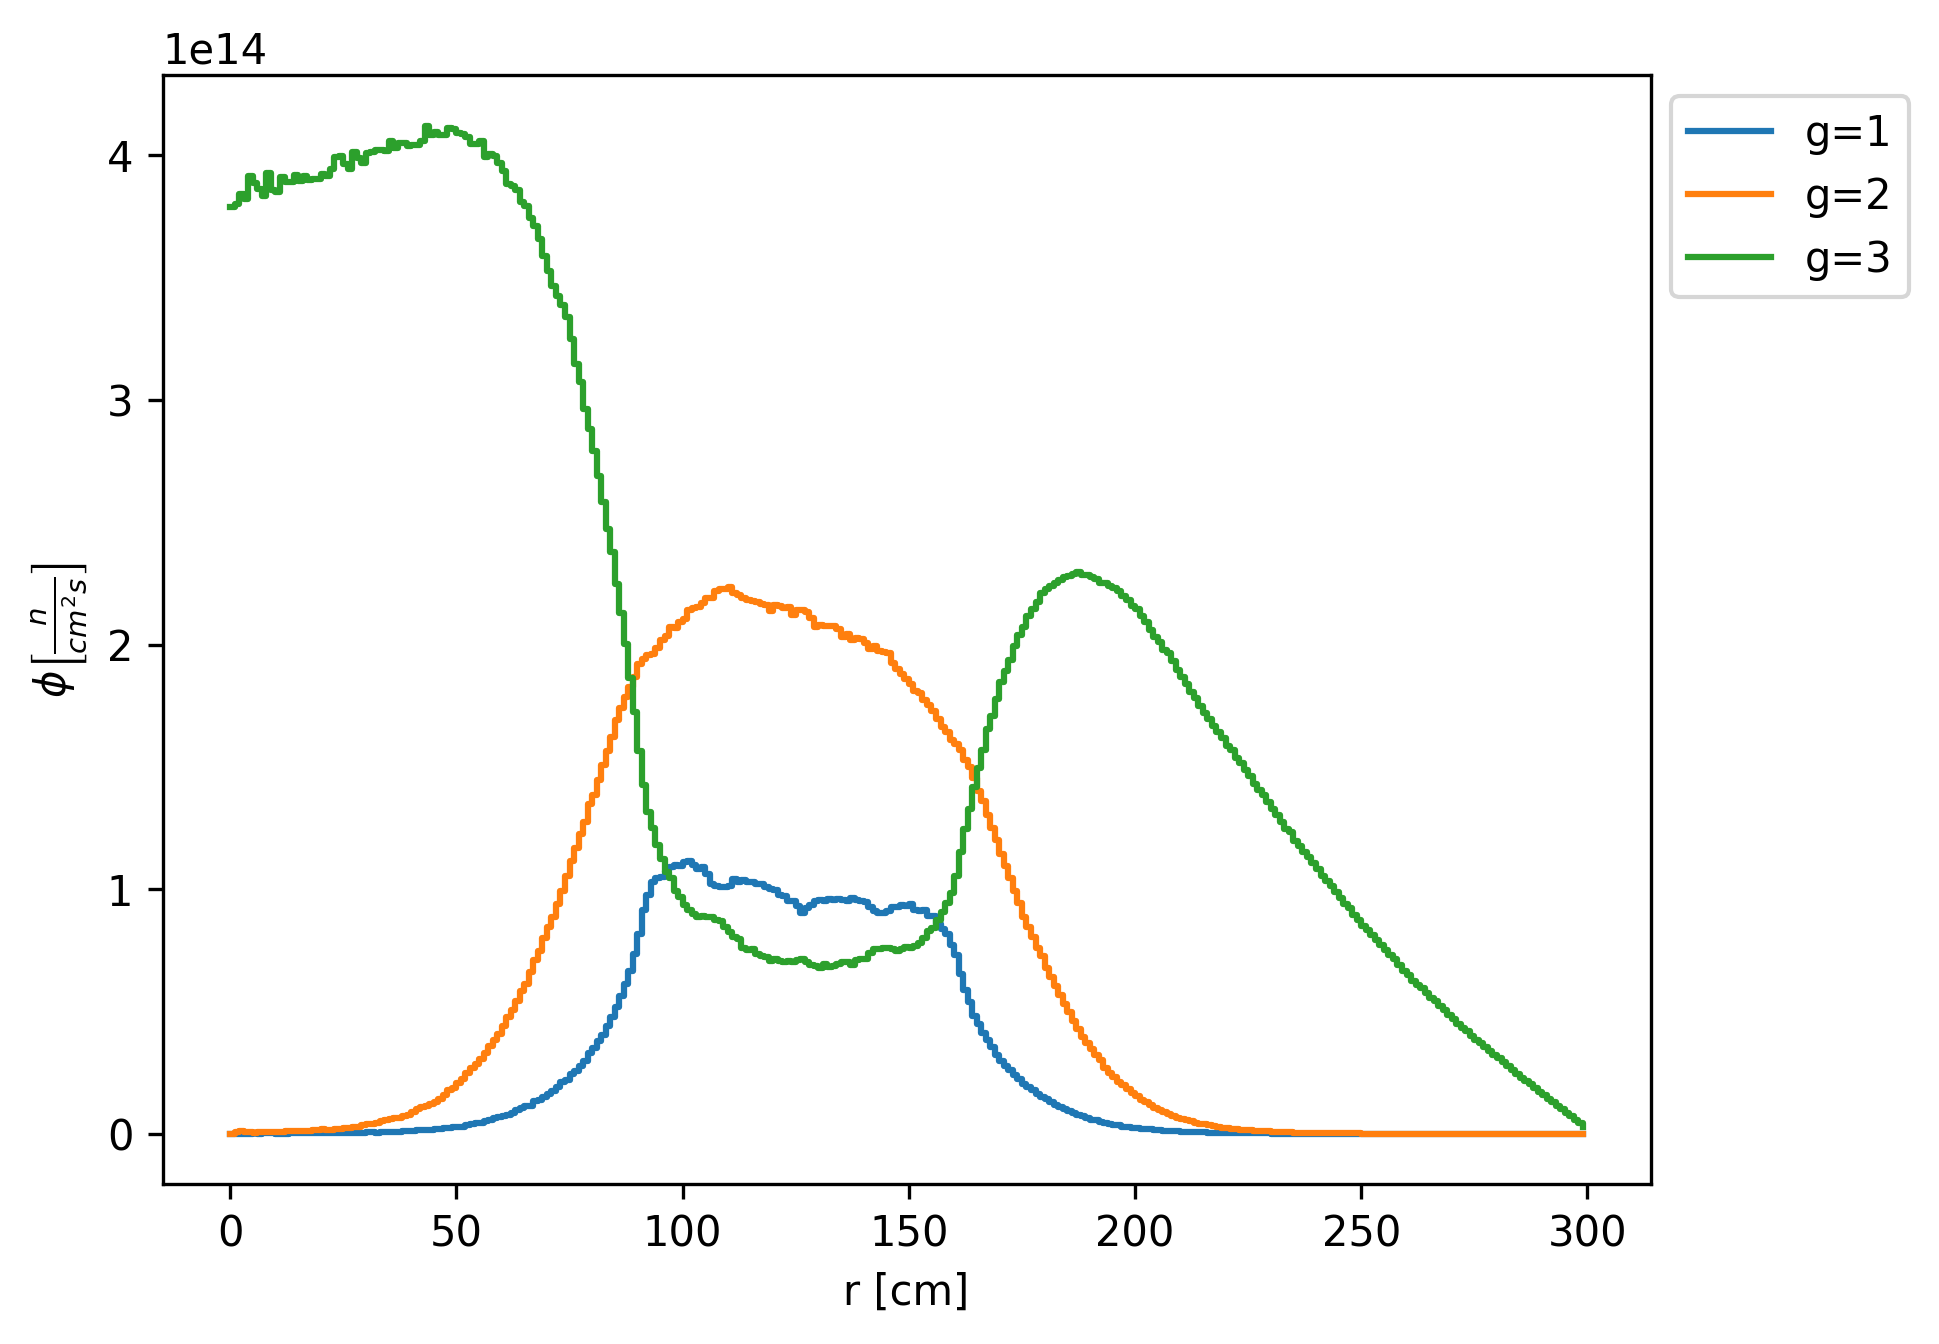
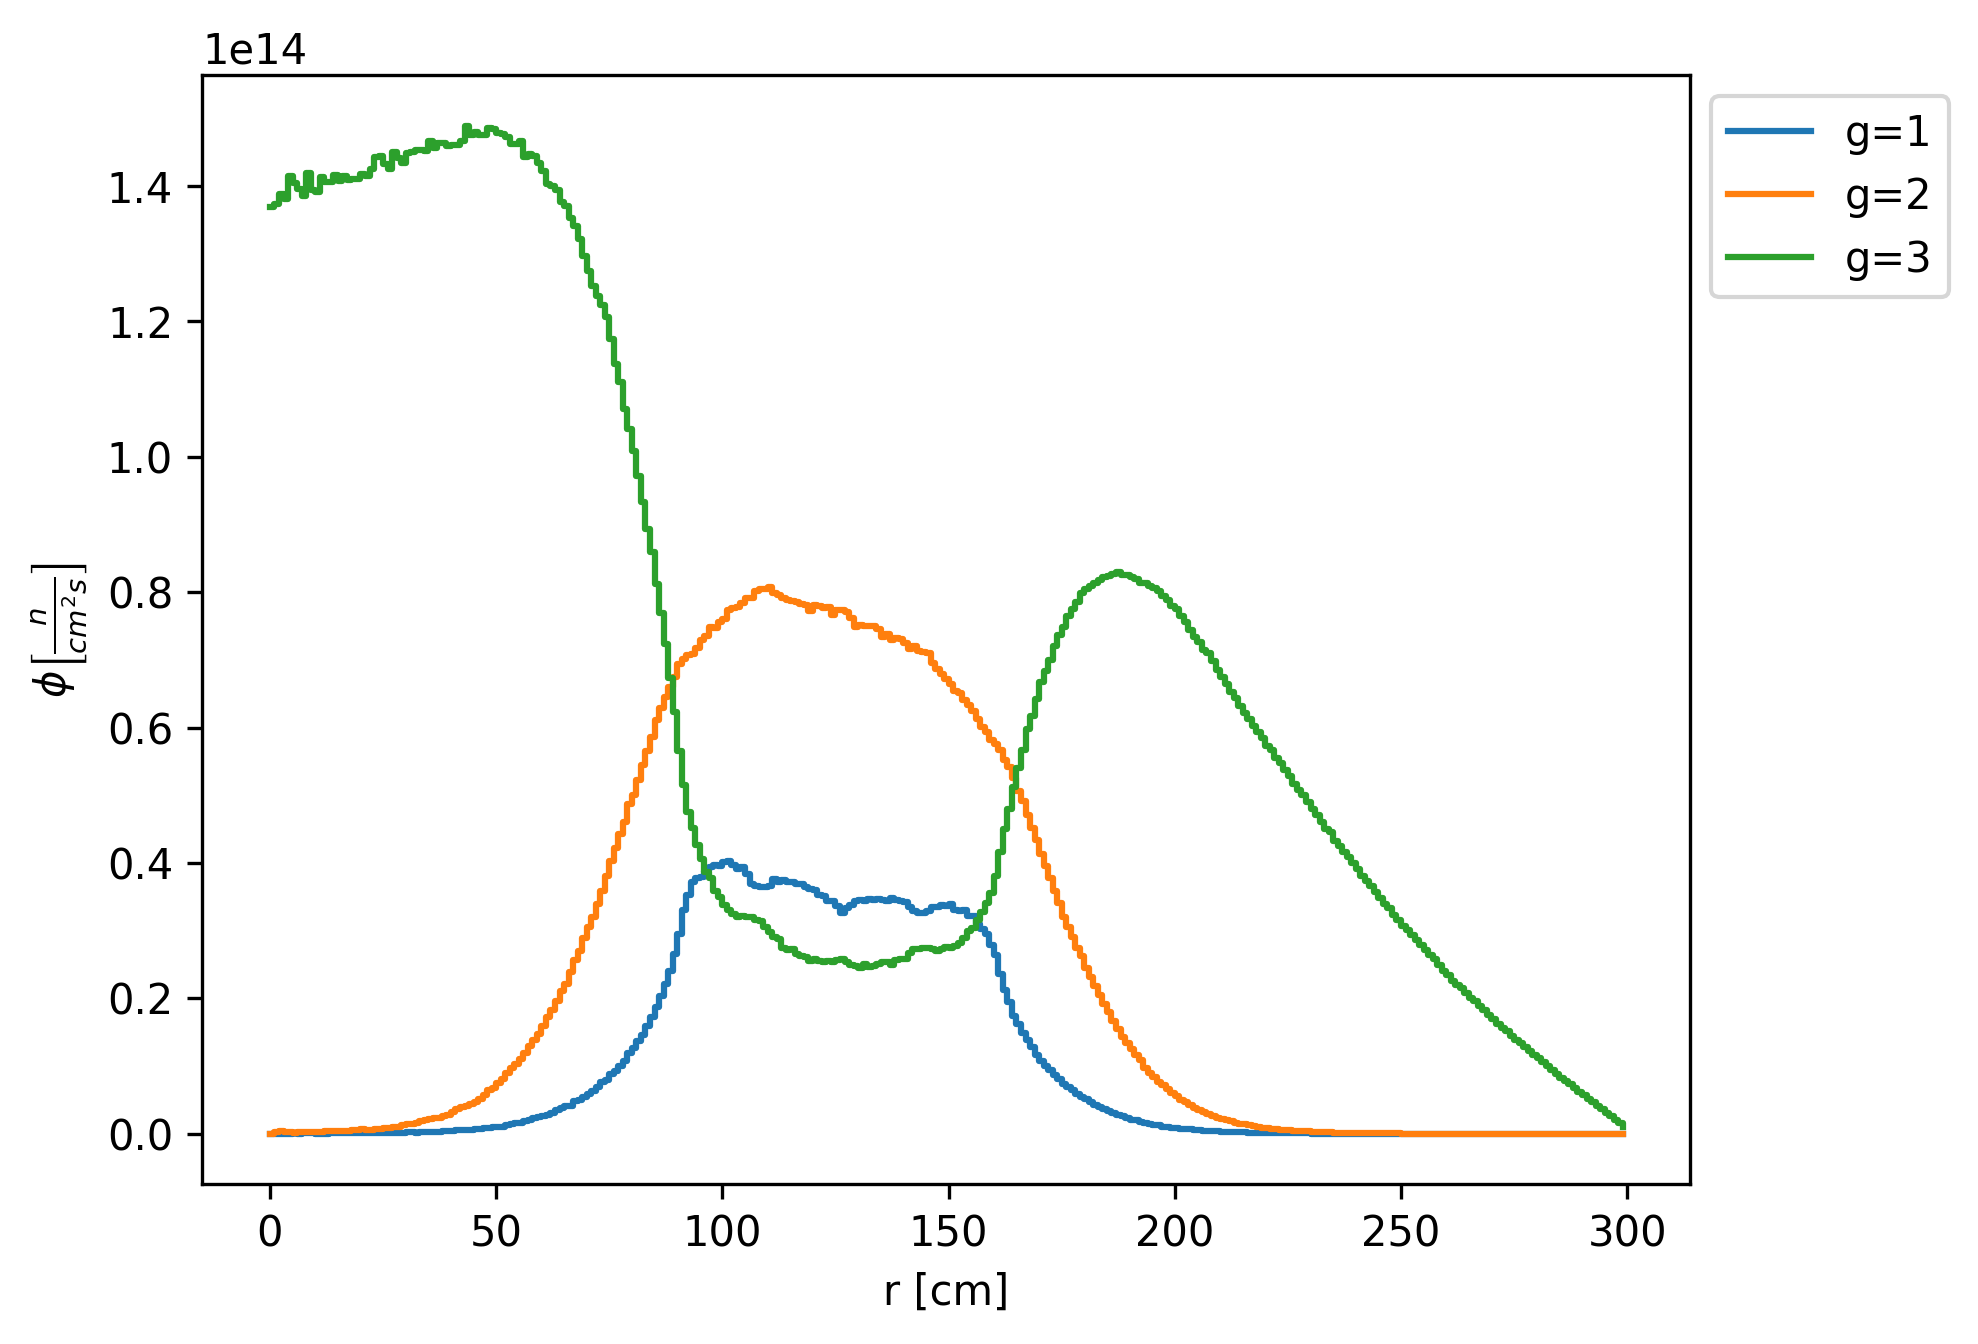
fixed 1200 radial flux figure

diff --git a/chapter-results/report.tex b/chapter-results/report.tex
@@ -423,16 +423,35 @@ Table \ref{tab:accuracy15}
 Dof/group = 160035
 total dof = 2400525
 
-Serpent: keff = 
-Moltres: keff = 
+Serpent: 
+keff (600K) = 
+keff (1200K) = 
+
+time(s) ( cores) () = 
+time(s) ( cores) () = 
+
+Moltres:
+keff (600K) = 1.1115000683
+keff (1200K) = 1.0646803289
+
+time(s) (256 cores) (600K): 12406.826
+time(s) (256 cores) (1200K): 15311.763
+
 
 Figure \ref{fig:fullcoremodel}
-Figure \ref{fig:fullcore-power}
+
+Figure \ref{fig:fullcore-600-power}
+Figure \ref{fig:fullcore-1200-power}
+
 Figure \ref{fig:fullcore-detectors}
 
-Figure \ref{fig:fullcore-axial1}
-Figure \ref{fig:fullcore-axial2}
-Figure \ref{fig:fullcore-radial1}
+Figure \ref{fig:fullcore-600-axial1}
+Figure \ref{fig:fullcore-600-axial2}
+Figure \ref{fig:fullcore-600-radial1}
+
+Figure \ref{fig:fullcore-1200-axial1}
+Figure \ref{fig:fullcore-1200-axial2}
+Figure \ref{fig:fullcore-1200-radial1}
 
 \begin{figure}[htbp!]
 	\centering
@@ -466,7 +485,7 @@ Figure \ref{fig:fullcore-radial1}
 	\end{subfigure}
 	\hfill
 	\caption{Radial power distribution at 600 K.}
-	\label{fig:fullcore-power}
+	\label{fig:fullcore-600-power}
 \end{figure}
 
 %Power distribution at 1200K
@@ -474,19 +493,18 @@ Figure \ref{fig:fullcore-radial1}
 	\centering
 	\begin{subfigure}[t]{0.4\textwidth}
 		\centering
-		\includegraphics[width=\linewidth]{figures-fullcore/}
+		\includegraphics[width=\linewidth]{figures-fullcore/serpent26G-1200-power}
 		\caption{Moltres.}
 	\end{subfigure}
 	\begin{subfigure}[t]{0.4\textwidth}
 		\centering
-		\includegraphics[width=\linewidth]{figures-fullcore/}
+		\includegraphics[width=\linewidth]{figures-fullcore/3D-fullcore-1200-15Gc-power}
 		\caption{Serpent.}
 	\end{subfigure}
 	\hfill
 	\caption{Radial power distribution.}
-	\label{fig:fullcore-power}
+	\label{fig:fullcore-1200-power}
 \end{figure}
-
 
 %Detectors
 \begin{figure}[htbp!]
@@ -506,7 +524,7 @@ Figure \ref{fig:fullcore-radial1}
 	\label{fig:fullcore-detectors}
 \end{figure}
 
-%Axial flux1
+%Axial flux1 at 600K
 \begin{figure}[htbp!]
 	\centering
 	\begin{subfigure}[t]{0.4\textwidth}
@@ -521,7 +539,7 @@ Figure \ref{fig:fullcore-radial1}
 	\end{subfigure}
 	\hfill
 	\caption{Flux in axial detector 1 at 600 K.}
-	\label{fig:fullcore-axial1}
+	\label{fig:fullcore-600-axial1}
 \end{figure}
 
 %Axial flux3
@@ -539,7 +557,7 @@ Figure \ref{fig:fullcore-radial1}
 	\end{subfigure}
 	\hfill
 	\caption{Flux in axial detector 2 at 600 K.}
-	\label{fig:fullcore-axial2}
+	\label{fig:fullcore-600-axial2}
 \end{figure}
 
 %Radial flux
@@ -557,7 +575,61 @@ Figure \ref{fig:fullcore-radial1}
 	\end{subfigure}
 	\hfill
 	\caption{Radial flux at 600 K.}
-	\label{fig:fullcore-radial1}
+	\label{fig:fullcore-600-radial1}
+\end{figure}
+
+%Axial flux1 at 1200K
+\begin{figure}[htbp!]
+	\centering
+	\begin{subfigure}[t]{0.4\textwidth}
+		\centering
+		\includegraphics[width=\linewidth]{figures-fullcore/serpent26G-600-collapse-Axial1}
+		\caption{Moltres.}
+	\end{subfigure}
+	\begin{subfigure}[t]{0.4\textwidth}
+		\centering
+		\includegraphics[width=\linewidth]{figures-fullcore/3D-fullcore15Gd-axial1}
+		\caption{Serpent.}
+	\end{subfigure}
+	\hfill
+	\caption{Flux in axial detector 1 at 1200 K.}
+	\label{fig:fullcore-1200-axial1}
+\end{figure}
+
+%Axial flux3
+\begin{figure}[htbp!]
+	\centering
+	\begin{subfigure}[t]{0.4\textwidth}
+		\centering
+		\includegraphics[width=\linewidth]{figures-fullcore/serpent26G-600-collapse-Axial2}
+		\caption{Moltres.}
+	\end{subfigure}
+	\begin{subfigure}[t]{0.4\textwidth}
+		\centering
+		\includegraphics[width=\linewidth]{figures-fullcore/3D-fullcore15Gd-axial3}
+		\caption{Serpent.}
+	\end{subfigure}
+	\hfill
+	\caption{Flux in axial detector 2 at 1200 K.}
+	\label{fig:fullcore-1200-axial2}
+\end{figure}
+
+%Radial flux
+\begin{figure}[htbp!]
+	\centering
+	\begin{subfigure}[t]{0.4\textwidth}
+		\centering
+		\includegraphics[width=\linewidth]{figures-fullcore/serpent26G-600-collapse-Radial}
+		\caption{Moltres.}
+	\end{subfigure}
+	\begin{subfigure}[t]{0.4\textwidth}
+		\centering
+		\includegraphics[width=\linewidth]{figures-fullcore/3D-fullcore15Gd-radial1}
+		\caption{Serpent.}
+	\end{subfigure}
+	\hfill
+	\caption{Radial flux at 1200 K.}
+	\label{fig:fullcore-1200-radial1}
 \end{figure}
 
 \pagebreak
